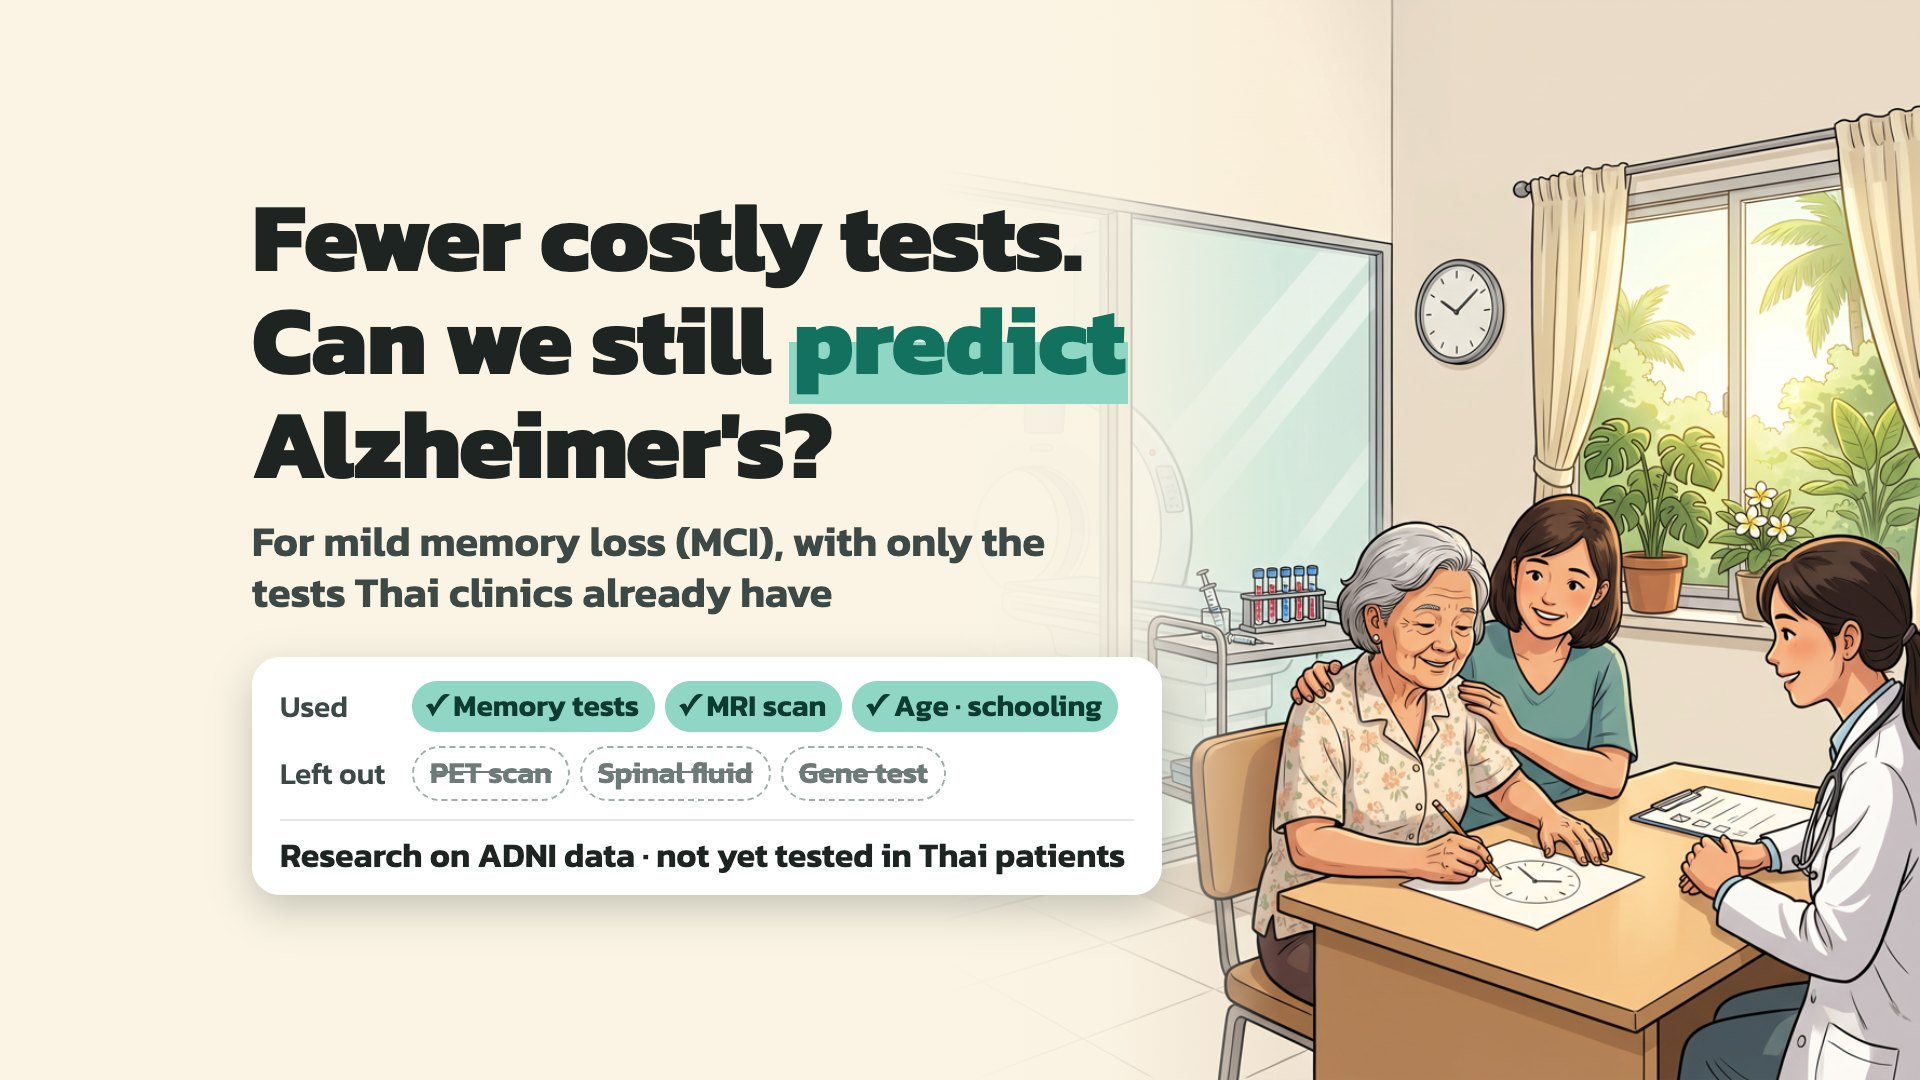
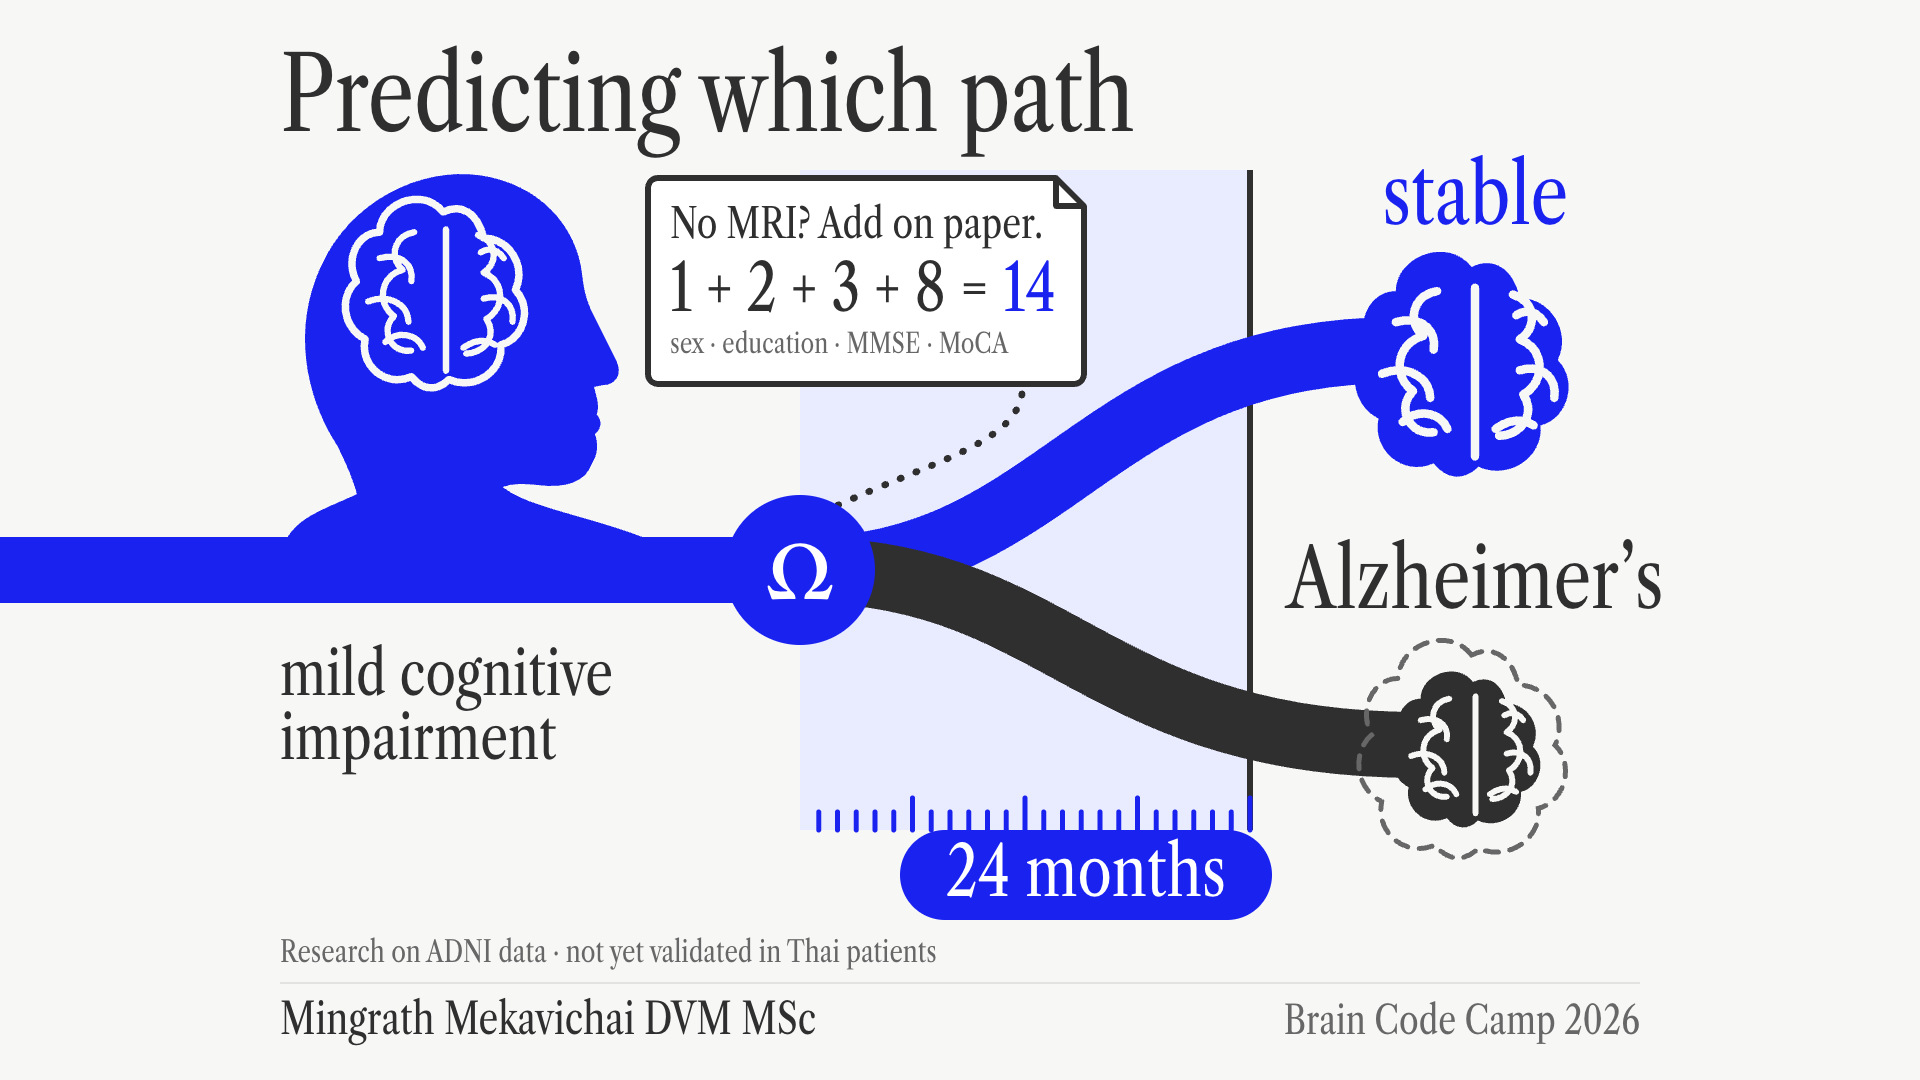
Use the A3 scorecard as the cover, with a 1200x630 image for link previews

diff --git a/index.html b/index.html
@@ -13,11 +13,12 @@
 <meta property="og:title" content="Predicting MCI to Alzheimer&#x27;s with the data Thai clinics really have">
 <meta property="og:description" content="Without PET, CSF or the APOE gene, can we still predict which MCI patients will progress to dementia (an ADNI clinical diagnosis) within 24 months (up to 30 with visit tolerance)? With MRI, 4 variables reach AUROC 0.815; without it, a points table on paper using MoCA, MMSE, sex and schooling reaches about 0.769. Research on ADNI data, not yet validated in Thai patients.">
 <meta property="og:url" content="https://mingrath1.github.io/bcc/">
-<meta property="og:image" content="https://mingrath1.github.io/bcc/cover.jpg">
+<meta property="og:image" content="https://mingrath1.github.io/bcc/cover-social.jpg">
 <meta property="og:image:type" content="image/jpeg">
-<meta property="og:image:width" content="1920">
-<meta property="og:image:height" content="1080">
+<meta property="og:image:width" content="1200">
+<meta property="og:image:height" content="630">
 <meta name="twitter:card" content="summary_large_image">
+<meta name="twitter:image" content="https://mingrath1.github.io/bcc/cover-social.jpg">
 <link rel="preload" href="assets/fonts/libre-caslon-condensed-400.woff2" as="font" type="font/woff2" crossorigin>
 <link rel="stylesheet" href="assets/style.css">
 <script src="assets/reel.js" defer></script>
